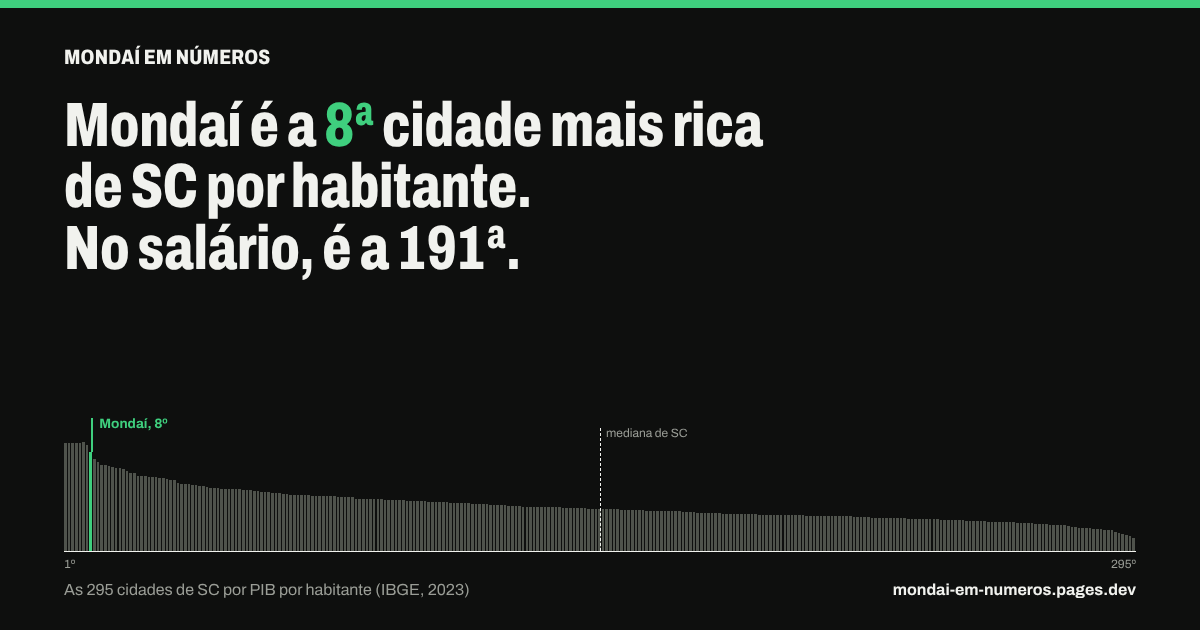
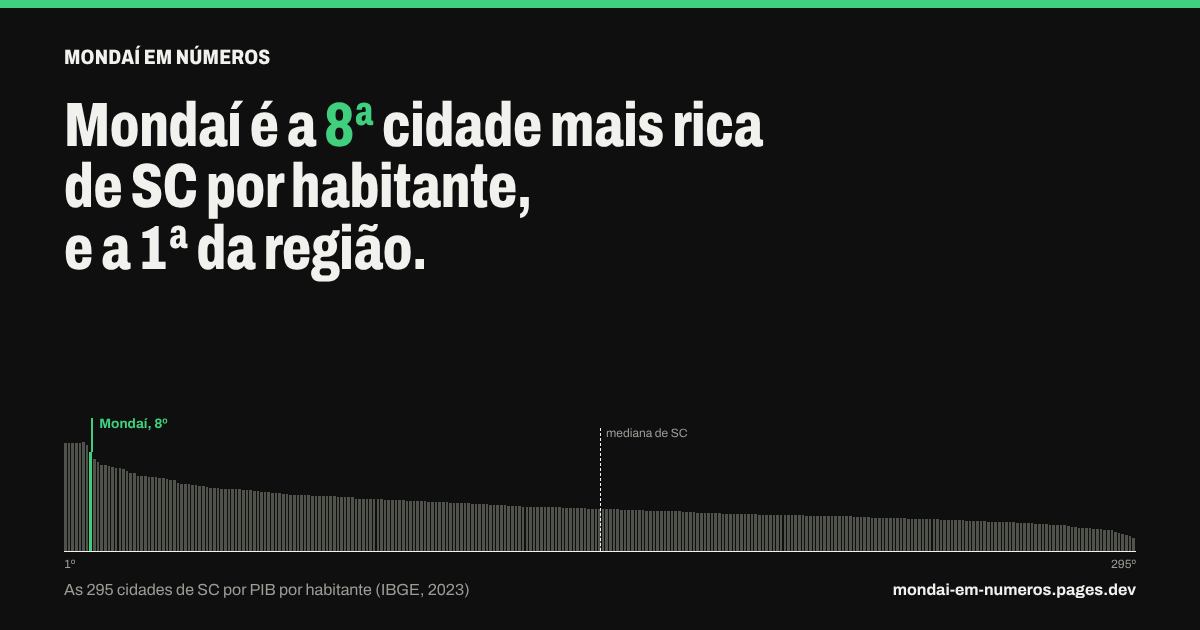
Textos com os dois lados de cada fato e nova história sobre a água
- Manchete: 8ª de SC e 1ª da região no PIB por habitante; o salário
  sai da manchete e aparece como "perto da mediana" (R$ 133 abaixo)
- História 1 explica por que a 191ª posição parece pior do que é:
  da 100ª à 200ª posição, a diferença de salário é de R$ 364
- Esgoto: abaixo de SC, mas o 2º melhor da região (mediana regional 42%)
- Nova história 6: 91% ligados à rede de água, 2º da região, com a
  ressalva de quem tem rede e usa outra fonte
- População: estimativas estáveis depois do Censo de 2022
- Seletor de cidade sempre destacado em verde
- og.png e og:description com a nova manchete
- README: regra editorial dos textos

Changed region(s): [[0.0308, 0.3317, 0.4317, 0.4524]]

diff --git a/public/js/painel/historias.js b/public/js/painel/historias.js
@@ -38,16 +38,18 @@ export function historias() {
     return Object.fromEntries(ids.map((id, i) => [id, i + 1]));
   };
   const rPib = posicoes("pib_pc"), rSal = posicoes("salario_rs");
+  const salarios = Object.values(MUN).map(m => m.salario_rs).filter(v => v).sort((a, b) => b - a);
   const distancias = Object.keys(rPib).map(id => rSal[id] - rPib[id]).sort((a, b) => b - a);
   const posDistancia = distancias.indexOf(rSal[P.mondai] - rPib[P.mondai]) + 1;
   capitulo(1, {
     tema: "Riqueza e salário",
-    titulo: "A riqueza fica entre as primeiras do estado. O salário, no meio da fila.",
+    titulo: "Muita riqueza produzida por habitante. O salário, perto da mediana do estado.",
     texto: "O PIB por habitante divide pela população tudo o que é produzido na cidade; em Mondaí, " +
-      Math.round(I.pct_ind.mondai) + "% do valor produzido em " + I.pct_ind.ano + " veio da indústria. " +
-      "O salário médio mostra quanto recebe, em média, quem trabalha em empresas e organizações. No salário, Mondaí fica " +
-      (rSal[P.mondai] - rPib[P.mondai]) + " posições abaixo de onde está na riqueza. Só " + (posDistancia - 1) + " das " + distancias.length +
-      " cidades de SC têm uma diferença maior.",
+      Math.round(I.pct_ind.mondai) + "% do valor produzido em " + I.pct_ind.ano + " veio da indústria. É o " + pc.maior_sc + "º maior de SC e o " +
+      pc.maior_regiao + "º da região. O salário médio mostra quanto recebe, em média, quem trabalha em empresas e organizações: " + reais(sal.mondai) +
+      " em " + sal.ano + ", " + reais(Math.abs(sal.mediana_sc - sal.mondai)) + (sal.mondai < sal.mediana_sc ? " abaixo" : " acima") +
+      " da mediana do estado. No ranking, isso vira a " + sal.maior_sc + "ª posição porque, no meio da fila, as cidades ficam muito próximas: da 100ª à 200ª, a diferença é de " +
+      reais(salarios[99] - salarios[199]) + ".",
     figura: "As " + pc.total_sc + " cidades de SC em dois rankings. Cada traço é uma cidade, da maior para a menor.",
     fonte: "IBGE, PIB dos Municípios " + pc.ano + " e Cadastro Central de Empresas " + sal.ano
   }, () => ({
@@ -114,13 +116,16 @@ export function historias() {
   const razao = a => somaV(a, "nascimentos") / somaV(a, "obitos");
   const v0 = S.vitais[0], v1 = S.vitais[S.vitais.length - 1];
   const censos = S.populacao.filter(x => x.tipo === "Censo");
+  const estimativas = S.populacao.filter(x => x.tipo === "Estimativa");
   capitulo(4, {
     tema: "População",
     titulo: "De " + per(ini) + ", nasciam " + d1.format(razao(ini)) + " bebês para cada morte. De " + per(fim) + ", " + d1.format(razao(fim)) + ".",
     texto: "Os nascimentos ficaram estáveis, com média de " + int.format(somaV(ini, "nascimentos") / 3) + " e " + int.format(somaV(fim, "nascimentos") / 3) +
       " por ano nos dois períodos. O que mudou foram os óbitos, que passaram de " + int.format(somaV(ini, "obitos") / 3) + " para " + int.format(somaV(fim, "obitos") / 3) +
       " por ano. Entre os Censos de " + censos[0].ano + " e " + censos[censos.length - 1].ano + ", a população foi de " + int.format(censos[0].valor) + " para " +
-      int.format(censos[censos.length - 1].valor) + " pessoas.",
+      int.format(censos[censos.length - 1].valor) + " pessoas. Depois do Censo, as estimativas do IBGE de " + estimativas[0].ano + " a " +
+      estimativas[estimativas.length - 1].ano + " ficam estáveis, entre " + int.format(Math.min(...estimativas.map(x => x.valor))) + " e " +
+      int.format(Math.max(...estimativas.map(x => x.valor))) + " moradores.",
     figura: "Nascimentos e óbitos de moradores de Mondaí, por ano.",
     fonte: "IBGE, Registro Civil e Censos Demográficos"
   }, () => ({
@@ -143,23 +148,40 @@ export function historias() {
     tabela: [["Ano", "Nascimentos", "Óbitos"], S.vitais.map(x => [x.ano, x.nascimentos, x.obitos])]
   }));
 
-  // 5. Esgoto, pelo critério do Plansab
+  // 5. Esgoto, pelo critério do Plansab: abaixo de SC, à frente da região
+  const ea = I.esgoto_adequado;
+  const aFrente = ea.maior_regiao - 1;
   capitulo(5, {
-    tema: "Saneamento",
-    titulo: Math.round(precario(esgM)) + " em cada 100 moradores usam fossa rudimentar ou outra solução precária para o esgoto",
-    texto: "Pelo Plano Nacional de Saneamento Básico, rede geral e fossa séptica são soluções adequadas. Em Mondaí, " + Math.round(I.esgoto_adequado.mondai) +
-      "% dos moradores estão nesse grupo, contra " + Math.round(100 - precario(esgSC)) + "% em Santa Catarina. Quase todos usam fossa séptica: só " +
-      Math.round(I.esgoto_rede.mondai) + "% estão ligados à rede geral, contra " + Math.round(esgSC["Rede geral ou fossa ligada à rede"]) + "% no estado.",
+    tema: "Esgoto",
+    titulo: "O esgoto adequado chega a " + Math.round(ea.mondai) + "% dos moradores: abaixo de SC, mas o " + ea.maior_regiao + "º melhor da região",
+    texto: "Pelo Plano Nacional de Saneamento Básico, rede geral e fossa séptica são soluções adequadas. Em Mondaí, " + Math.round(ea.mondai) +
+      "% dos moradores estão nesse grupo, contra " + Math.round(100 - precario(esgSC)) + "% em Santa Catarina. Na região de " + P.regiao +
+      ", onde a mediana das cidades é de " + Math.round(ea.mediana_regiao) + "%, " + (aFrente === 0 ? "nenhuma cidade fica à frente" : aFrente === 1 ? "só uma cidade fica à frente" : "só " + aFrente + " cidades ficam à frente") +
+      ". O que puxa para baixo é a rede: só " + Math.round(I.esgoto_rede.mondai) + "% estão ligados à rede geral, contra " +
+      Math.round(esgSC["Rede geral ou fossa ligada à rede"]) + "% no estado, e " + Math.round(esgM["Fossa rudimentar ou buraco"]) + " em cada 100 ainda usam fossa rudimentar ou buraco.",
     figura: "Tipo de esgoto, em % dos moradores, em Mondaí e em Santa Catarina. Tons de verde: soluções adequadas; cinza: precárias.",
     fonte: "IBGE, Censo Demográfico 2022; critério do Plansab"
   }, () => composicao(esgotoRotulado(), ["c3", "c5", "c2", "c4"]));
 
-  // 6. Prefeitura
+  // 6. Água: acima de SC e da região, com a ressalva de quem tem rede e usa outra fonte
+  const ag = I.agua_rede, agM = S.agua["Mondaí"], agSC = S.agua["Santa Catarina"];
+  capitulo(6, {
+    tema: "Água",
+    titulo: Math.round(ag.mondai) + " em cada 100 moradores estão ligados à rede de água, o " + ag.maior_regiao + "º melhor índice da região",
+    texto: "Na mediana das cidades catarinenses, são " + Math.round(ag.mediana_sc) + " em cada 100, e o estado como um todo chega a " +
+      Math.round(agSC["Rede geral"] + agSC["Rede geral, mas usa outra fonte"]) + ". Mondaí é a " + ag.maior_sc + "ª de SC. Mas ter a ligação não quer dizer usá-la: " +
+      Math.round(agM["Rede geral, mas usa outra fonte"]) + " em cada 100 moradores têm rede e usam principalmente outra fonte, contra " +
+      Math.round(agSC["Rede geral, mas usa outra fonte"]) + " no estado. Outros " + Math.round(agM["Sem ligação à rede"]) + " não têm ligação.",
+    figura: "Abastecimento de água, em % dos moradores, em Mondaí e em Santa Catarina.",
+    fonte: "IBGE, Censo Demográfico 2022"
+  }, () => composicao(S.agua, ["c3", "c5", "c4"]));
+
+  // 7. Prefeitura
   const pf = P.prefeitura;
   const desp = Object.entries(pf.mondai).sort((a, b) => b[1] - a[1]);
   const totalDesp = desp.reduce((s, x) => s + x[1], 0);
   const edu = pf.mondai["Educação"], sau = pf.mondai["Saúde"];
-  capitulo(6, {
+  capitulo(7, {
     tema: "Prefeitura",
     titulo: "De cada R$ 10 que a prefeitura gasta, quase R$ 5 vão para educação e saúde",
     texto: "Em " + pf.ano + ", a prefeitura de Mondaí liquidou " + reais(totalDesp) + " em despesas, " + reais(pf.por_habitante[P.mondai].total) +

diff --git a/public/js/painel/abertura.js b/public/js/painel/abertura.js
@@ -6,11 +6,13 @@ import { ranking } from "./ranking.js";
 export function abertura() {
   const pc = I.pib_pc, sal = I.salario_rs;
   document.getElementById("manchete").innerHTML =
-    'Mondaí é a <span class="m">' + pc.maior_sc + "ª</span> cidade mais rica de Santa Catarina por habitante. No salário, é a " + sal.maior_sc + "ª.";
+    'Mondaí é a <span class="m">' + pc.maior_sc + "ª</span> cidade mais rica de Santa Catarina por habitante, e a " + pc.maior_regiao + "ª da região.";
+  // O outro lado: riqueza produzida não é o mesmo que salário.
+  const perto = Math.abs(sal.mondai - sal.mediana_sc) / sal.mediana_sc < 0.1;
   document.getElementById("lide").textContent =
     "Em " + pc.ano + ", a economia produziu " + reais(pc.mondai) + " por morador, " + d1.format(pc.mondai / pc.mediana_sc) + " vezes a mediana do estado. " +
-    "Mas o salário médio de quem trabalha em empresas, " + reais(sal.mondai) + " em " + sal.ano + ", ficou " +
-    (sal.mondai < sal.mediana_sc ? "abaixo" : "acima") + " da mediana catarinense, de " + reais(sal.mediana_sc) + ".";
+    "Isso mede o que é produzido, não o que cada pessoa ganha: o salário médio de quem trabalha em empresas, " + reais(sal.mondai) + " em " + sal.ano + ", fica " +
+    (perto ? "perto da" : sal.mondai < sal.mediana_sc ? "abaixo da" : "acima da") + " mediana catarinense, de " + reais(sal.mediana_sc) + ".";
   document.getElementById("faixaAbertura").innerHTML =
     '<figcaption class="ranking-titulo"><b>PIB por habitante, ' + pc.ano + ".</b> As " + pc.total_sc + " cidades de SC, da maior para a menor.</figcaption>" +
     ranking("pib_pc", { altura: 110, rotulo: "PIB por habitante das " + pc.total_sc + " cidades de SC; Mondaí é a " + pc.maior_sc + "ª" });

diff --git a/public/index.html b/public/index.html
@@ -12,7 +12,7 @@
 <meta property="og:locale" content="pt_BR">
 <meta property="og:site_name" content="Mondaí em Números">
 <meta property="og:title" content="Mondaí em Números">
-<meta property="og:description" content="Mondaí é a 8ª cidade mais rica de SC por habitante. No salário, é a 191ª. Veja o que mais os números oficiais contam, e como a sua cidade se compara.">
+<meta property="og:description" content="Mondaí é a 8ª cidade mais rica de SC por habitante e a 1ª da região. Veja o que mais os números oficiais contam, os bons e os ruins, e como a sua cidade se compara.">
 <meta property="og:url" content="https://mondai-em-numeros.pages.dev/">
 <meta property="og:image" content="https://mondai-em-numeros.pages.dev/og.png">
 <meta property="og:image:width" content="1200">

diff --git a/public/css/painel.css b/public/css/painel.css
@@ -57,6 +57,8 @@ section.bloco:first-of-type { border-top: 0; }
 .duelo-topo .intro { margin-bottom: 0; }
 #sua-cidade > .largura > .nota { margin-top: 14px; }
 .duelo-topo label { font-size: 0.85rem; font-weight: 600; display: grid; gap: 4px; min-width: 240px; color: var(--tinta); }
+/* O seletor fica sempre destacado, para a pessoa perceber que pode trocar a cidade */
+#selCidade { border: 2px solid var(--c1); font-weight: 650; }
 .duelo { display: grid; grid-template-columns: repeat(2, minmax(0, 1fr)); column-gap: 40px; border-top: 1px solid var(--tinta); }
 .linha-duelo { padding: 16px 0 14px; border-bottom: 1px solid var(--linha); }
 .linha-duelo h3 { font-size: 1.02rem; font-stretch: 85%; font-weight: 700; margin-bottom: 4px; }

diff --git a/README.md b/README.md
@@ -81,6 +81,13 @@ A [`auditoria.py`](pipeline/auditoria.py) refaz cada porcentagem a partir das co
 
 Esgoto adequado segue o critério do Plano Nacional de Saneamento Básico (Plansab), adotado pelo IBGE na divulgação do Censo 2022: rede geral e fossa séptica, ligada ou não à rede.
 
+## Como os textos são escritos
+
+- Todo número de título ou texto é calculado dos dados na hora, nunca escrito à mão; se os dados forem atualizados, os textos acompanham.
+- Cada fato vem com os dois lados quando os dados mostram os dois: por exemplo, o esgoto adequado fica abaixo de Santa Catarina, mas é o 2º melhor da região.
+- O texto só afirma o que os dados mostram. Interpretações sem base nos números (causas, intenções, quem ganha ou perde) ficam de fora.
+- Posições no ranking vêm acompanhadas do valor quando a diferença real é pequena: no meio da fila, cem posições podem separar poucas centenas de reais.
+
 ## Fontes
 
 | Tema | Fonte | Tabela ou serviço |
